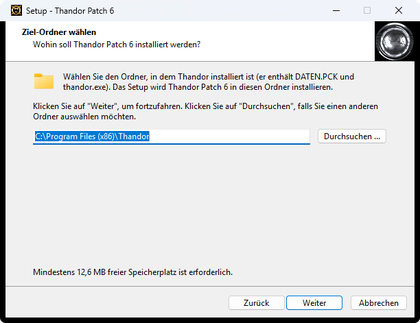
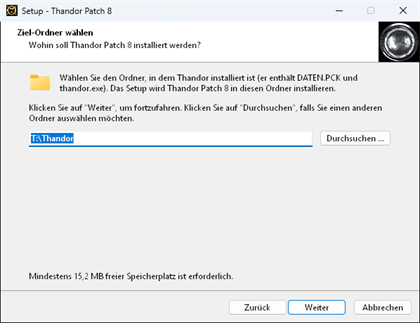
Installer 1.0.8: README installer screenshots from a capture script
docs/images/installer-welcome/folder/ready.png now show Thandor Patch 8 (1.0.8) with the new wizard image.
tools/installer/capture_wizard_shots.ps1 runs a TestLowPriv Setup against a throwaway folder (dummy files,
optionally shown as T:\Thandor through a temporary subst), captures only the wizard window, steps
Welcome -> Folder -> Ready, checks the folder path and cancels; usage in tools/installer/README.md.

Changed region(s): [[0.0, 0.0, 1.0, 1.0], [0.0619, 0.805, 0.5571, 0.8978]]

diff --git a/tools/installer/README.md b/tools/installer/README.md
@@ -42,3 +42,20 @@ the arrow key for 0.35 s, a shot every 0.75 s; wrapper and script: `ot-scratch/i
 `--crop 1340,60,580,1110`; the set of 2026-10-06, version "1.0.6", used `showcase_02.bmp` (5 wheel notches) with
 `--crop 840,200,460,880`; neither shot exists any more.) Shots are not bit-reproducible (timing), so a new run gives a
 slightly different picture.
+
+## README screenshots of the installer
+
+`docs/images/installer-welcome.png`, `installer-folder.png` and `installer-ready.png` (420x323 PNG, shown in
+`README.md`) come from `capture_wizard_shots.ps1`. It runs a test Setup without admin rights against a throwaway
+folder it creates itself (`<OutDir>\target\Thandor` with dummy `DATEN.PCK`, `thandor.exe` and `thandor.sym`; with
+`-Drive T` it is shown as `T:\Thandor` through a temporary `subst`, so the pictures do not show the temp path). It
+captures only the wizard window (PrintWindow), steps Welcome -> Folder -> Ready, checks on the Folder page that the
+path is the throwaway folder and then cancels. It never clicks "Installieren".
+
+```bat
+python tools\installer\build_installer.py build-mingw-release -D TestLowPriv --out %TEMP%\otshots\setup
+powershell -ExecutionPolicy Bypass -File tools\installer\capture_wizard_shots.ps1 -Setup %TEMP%\otshots\setup\Thandor-Patch-8.exe -OutDir %TEMP%\otshots -Drive T
+```
+
+Look at `%TEMP%\otshots\installer-*.png` first, then copy them to `docs\images`. The set of 2026-11-15 shows
+Thandor Patch 8 (1.0.8).
